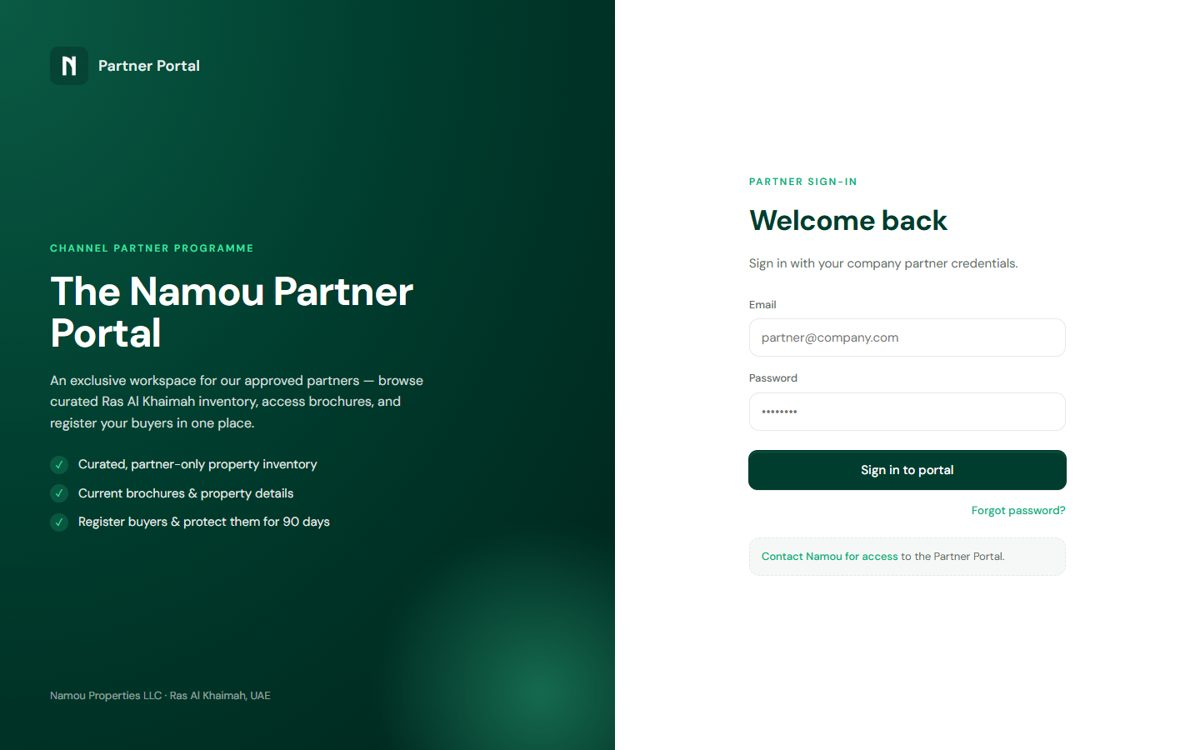
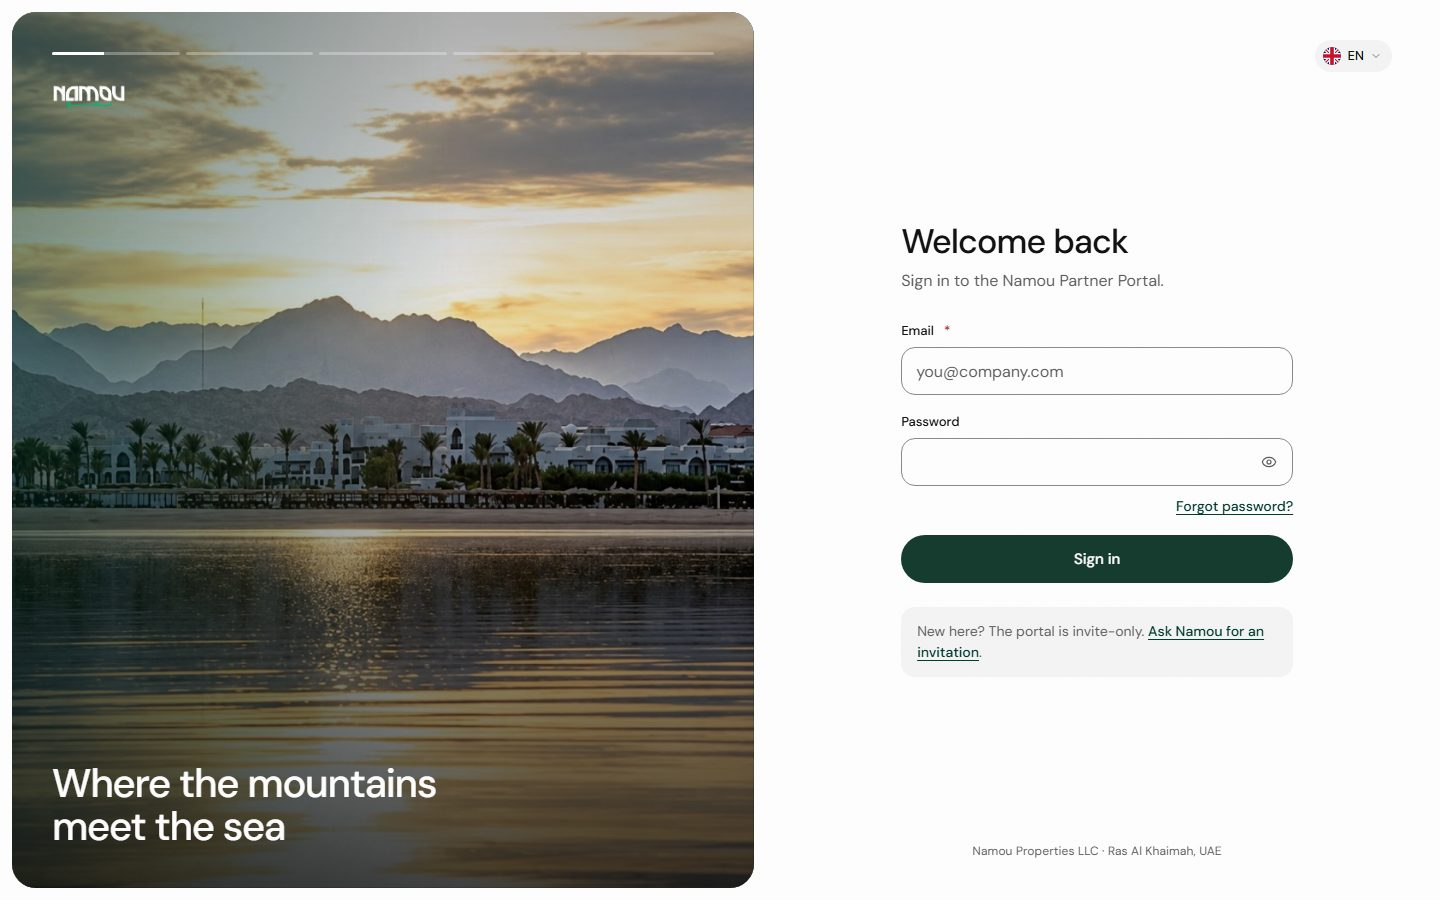
New sales deck thumbnail, live embed for the partner portal card

diff --git a/dev/index.html b/dev/index.html
@@ -355,6 +355,7 @@ html:not(.js) .rise{opacity:1;transform:none}
   .pv-open{opacity:1!important;transform:none!important}
   *{transition:none!important;animation:none!important}
 }
+.flive{position:relative;width:100%;height:100%;overflow:hidden;border-radius:6cqw;container-type:inline-size;background:#fff}.flive iframe{position:absolute;top:0;left:0;width:1440px;height:900px;border:0;pointer-events:none;transform-origin:0 0;transform:scale(.25);transform:scale(calc(100cqw / 1440px))}/* live site, scaled from a 1440px desktop view */
 </style>
 </head>
 <body>
@@ -479,7 +480,7 @@ html:not(.js) .rise{opacity:1;transform:none}
             <div class="chips"><span class="chip-t">JavaScript</span><span class="chip-t">Vercel</span></div>
             <div class="project-links"><a href="https://namou-ae-v1.vercel.app/" target="_blank" rel="noopener">Open the site &#8599;</a></div>
           </template></div>
-          <div class="fitem" data-title="Partner portal" data-w="44" data-href="https://portal.namou.ae/" data-label="Open Partner portal" style="top:16%;width:44%;margin-left:-22%;aspect-ratio:1.6"><div class="fcard"><img src="../assets/previews/portal-login.jpg" alt="Partner portal home page" loading="lazy"/></div>
+          <div class="fitem" data-title="Partner portal" data-w="44" data-href="https://portal.namou.ae/" data-label="Open Partner portal" style="top:16%;width:44%;margin-left:-22%;aspect-ratio:1.6"><div class="fcard"><div class="flive" role="img" aria-label="Partner portal, live"><iframe src="https://portal.namou.ae/" loading="lazy" tabindex="-1" title="Namou Partner Portal, live preview" scrolling="no"></iframe></div></div>
           <template class="fdetail-src">
             <span class="project-type">Web app / Partners</span>
             <p class="sys-desc">Brokers sign in for onboarding, agreements, inventory and sales material. Live behind partner sign-in.</p>
@@ -798,7 +799,7 @@ html:not(.js) .rise{opacity:1;transform:none}
       'Swipe to browse, scroll down for the story. Select a preview to open the original.':'Swipe to browse, scroll down for the story.';
     track.replaceChildren();
     items.forEach(function(item,i){
-      var image=item.querySelector('img'),note=item.querySelector('.fnote');
+      var image=item.querySelector('img,.flive'),note=item.querySelector('.fnote');
       var title=item.dataset.title||(image?image.alt:note.querySelector('b').textContent);
       var figure=document.createElement('figure');figure.className='fstage-item';
       figure.setAttribute('role','group');figure.setAttribute('aria-label',(i+1)+' of '+items.length+': '+title);

diff --git a/job/index.html b/job/index.html
@@ -355,6 +355,7 @@ html:not(.js) .rise{opacity:1;transform:none}
   .pv-open{opacity:1!important;transform:none!important}
   *{transition:none!important;animation:none!important}
 }
+.flive{position:relative;width:100%;height:100%;overflow:hidden;border-radius:6cqw;container-type:inline-size;background:#fff}.flive iframe{position:absolute;top:0;left:0;width:1440px;height:900px;border:0;pointer-events:none;transform-origin:0 0;transform:scale(.25);transform:scale(calc(100cqw / 1440px))}/* live site, scaled from a 1440px desktop view */
 </style>
 </head>
 <body>
@@ -544,7 +545,7 @@ html:not(.js) .rise{opacity:1;transform:none}
             <span class="project-type">Sales</span>
             <p class="sys-desc">A live sales environment combining masterplans, payment plans, and investment tools for faster, clearer buyer conversations.</p>
           </template></div>
-          <div class="fitem" data-title="Partner Portal" data-w="44" data-href="https://portal.namou.ae/" data-label="Open the partner portal" style="top:16%;width:44%;margin-left:-22%;aspect-ratio:1.6"><div class="fcard"><img src="../assets/previews/portal-login.jpg" alt="Partner Portal sign-in" loading="lazy"/></div>
+          <div class="fitem" data-title="Partner Portal" data-w="44" data-href="https://portal.namou.ae/" data-label="Open the partner portal" style="top:16%;width:44%;margin-left:-22%;aspect-ratio:1.6"><div class="fcard"><div class="flive" role="img" aria-label="Partner portal, live"><iframe src="https://portal.namou.ae/" loading="lazy" tabindex="-1" title="Namou Partner Portal, live preview" scrolling="no"></iframe></div></div>
           <template class="fdetail-src">
             <span class="project-type">Partners</span>
             <p class="sys-desc">A secure workspace connecting brokers with onboarding, agreements, inventory, sales materials, and partner resources. Live behind partner sign-in.</p>
@@ -954,7 +955,7 @@ html:not(.js) .rise{opacity:1;transform:none}
       'Swipe to browse, scroll down for the story. Select a preview to open the original.':'Swipe to browse, scroll down for the story.';
     track.replaceChildren();
     items.forEach(function(item,i){
-      var image=item.querySelector('img'),note=item.querySelector('.fnote');
+      var image=item.querySelector('img,.flive'),note=item.querySelector('.fnote');
       var title=item.dataset.title||(image?image.alt:note.querySelector('b').textContent);
       var figure=document.createElement('figure');figure.className='fstage-item';
       figure.setAttribute('role','group');figure.setAttribute('aria-label',(i+1)+' of '+items.length+': '+title);
